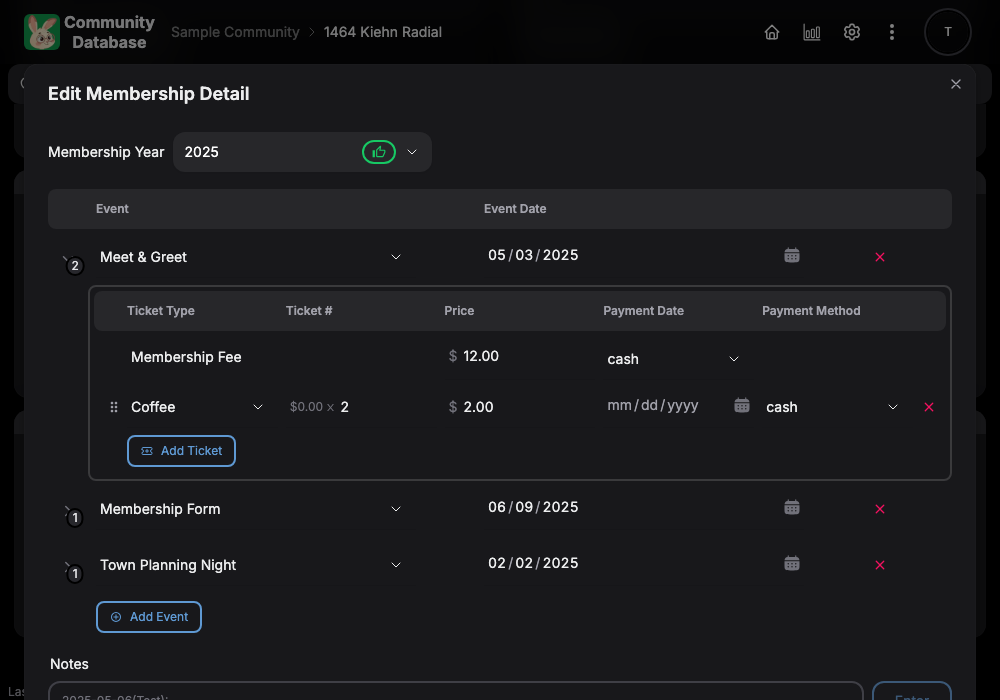
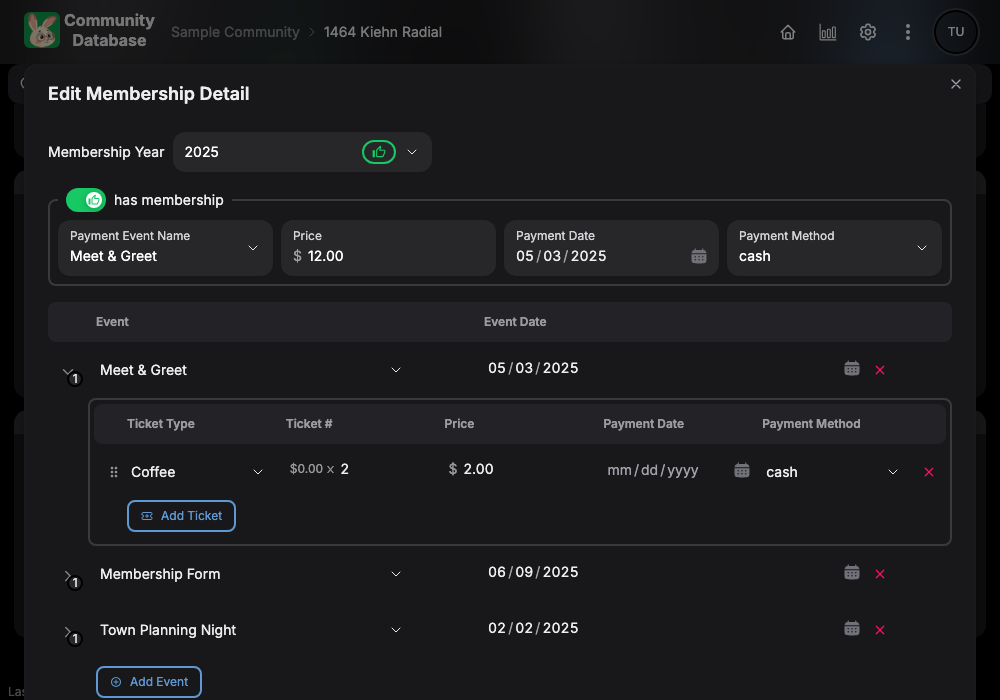
fix: update screenshots

diff --git a/src/app/lib/xlsx-io/__tests__/import-multisheet.spec.ts b/src/app/lib/xlsx-io/__tests__/import-multisheet.spec.ts
@@ -57,6 +57,11 @@ describe('import community xlsx (multisheet format)', () => {
                     membershipList {
                       year
                       isMember
+                      price
+                      paymentEventName
+                      paymentDate
+                      paymentMethod
+                      paymentDeposited
                       eventAttendedList {
                         eventName
                         eventDate
@@ -68,9 +73,6 @@ describe('import community xlsx (multisheet format)', () => {
                           paymentDate
                         }
                       }
-                      price
-                      paymentMethod
-                      paymentDeposited
                     }
                   }
                 }
@@ -193,7 +195,9 @@ describe('import community xlsx (multisheet format)', () => {
           __typename: 'Membership',
           eventAttendedList: [],
           isMember: false,
-          paymentDeposited: false,
+          paymentDate: null,
+          paymentEventName: null,
+          paymentDeposited: null,
           paymentMethod: null,
           price: null,
           year: 2024,
@@ -249,7 +253,9 @@ describe('import community xlsx (multisheet format)', () => {
             },
           ],
           isMember: true,
+          paymentDate: '2023-06-11',
           paymentDeposited: true,
+          paymentEventName: 'Summer Festival',
           paymentMethod: 'e-Transfer',
           price: '10',
           year: 2023,
@@ -265,9 +271,11 @@ describe('import community xlsx (multisheet format)', () => {
             },
           ],
           isMember: true,
+          paymentDate: '2022-02-10',
+          paymentEventName: 'Membership Carry Forward',
           paymentDeposited: false,
           paymentMethod: 'free',
-          price: null,
+          price: '0',
           year: 2022,
         },
         {
@@ -281,9 +289,11 @@ describe('import community xlsx (multisheet format)', () => {
             },
           ],
           isMember: true,
+          paymentDate: '2021-01-23',
+          paymentEventName: 'Membership Carry Forward',
           paymentDeposited: false,
           paymentMethod: 'free',
-          price: null,
+          price: '0',
           year: 2021,
         },
       ],

diff --git a/src/app/lib/xlsx-io/export/format-multisheet/index.ts b/src/app/lib/xlsx-io/export/format-multisheet/index.ts
@@ -110,17 +110,27 @@ export class ExportMultisheet extends ExportHelper {
 
   private processMembership(membership: Membership, propertyId: number) {
     const membershipId = this.rows.membership.length + 1;
+    const defaultMembershipFee = this.community.defaultSetting?.membershipFee;
     this.rows.membership.push({
       membershipId,
       propertyId,
       year: membership.year ?? null,
       isMember: ExportHelper.toBool(membership.isMember),
-      paymentEventName: membership.paymentEventName ?? null,
-      price: membership.price ?? null,
-      paymentDate: ExportHelper.toDate(membership?.paymentDate),
-      paymentMethod: membership.paymentMethod ?? null,
-
-      paymentDeposited: ExportHelper.toBool(membership.paymentDeposited),
+      ...(membership.isMember
+        ? {
+            paymentEventName: membership.paymentEventName ?? null,
+            price: membership.price ?? defaultMembershipFee ?? null,
+            paymentDate: ExportHelper.toDate(membership?.paymentDate),
+            paymentMethod: membership.paymentMethod ?? null,
+            paymentDeposited: ExportHelper.toBool(membership.paymentDeposited),
+          }
+        : {
+            paymentEventName: null,
+            price: null,
+            paymentDate: null,
+            paymentMethod: null,
+            paymentDeposited: null,
+          }),
     });
     membership.eventAttendedList.forEach((event) => {
       this.processEvent(event, membershipId);

diff --git a/src/app/lib/cipher.ts b/src/app/lib/cipher.ts
@@ -30,10 +30,25 @@ export class Cipher {
 
   /** Decrypt message */
   decrypt(encrypted: string) {
-    const decipher = crypto.createDecipheriv('aes-256-cbc', this.key, this.iv);
-    let decrypted = decipher.update(encrypted, 'base64', 'utf8');
-    decrypted += decipher.final('utf8');
-    return decrypted;
+    try {
+      const decipher = crypto.createDecipheriv(
+        'aes-256-cbc',
+        this.key,
+        this.iv
+      );
+      let decrypted = decipher.update(encrypted, 'base64', 'utf8');
+      decrypted += decipher.final('utf8');
+      return decrypted;
+    } catch (error) {
+      /**
+       * Decrypting unsuccessfully, just return garbage
+       *
+       * - We don't want to throw error because we want to allow invalid
+       *   CIPHER_KEY/CIPHER_IV combination
+       */
+
+      return '...';
+    }
   }
 
   /**

diff --git a/src/app/lib/xlsx-io/multisheet.ts b/src/app/lib/xlsx-io/multisheet.ts
@@ -59,7 +59,7 @@ export interface OccupantRow {
   moveOutDate: string | null;
   firstName: string | null;
   lastName: string | null;
-  optOut: number | undefined;
+  optOut: number | null;
 }
 
 export interface ContactRow {
@@ -74,12 +74,12 @@ export interface MembershipRow {
   membershipId: number;
   propertyId: number;
   year: number | null;
-  isMember: number | undefined;
+  isMember: number | null;
   paymentEventName: string | null;
   price: string | null;
   paymentDate: string | null;
   paymentMethod: string | null;
-  paymentDeposited: number | undefined;
+  paymentDeposited: number | null;
 }
 
 export interface EventRow {

diff --git a/src/app/lib/mailchimp/index.ts b/src/app/lib/mailchimp/index.ts
@@ -1,3 +1,4 @@
+import { GraphQLError } from 'graphql';
 import * as GQL from '~/graphql/generated/graphql';
 import { Cipher } from '~/lib/cipher';
 import { Audience, Ping, Resource } from './resource';
@@ -35,7 +36,7 @@ export class MailchimpApi {
     const parts = apiKey.split('-');
     const server = apiKey.split('-').at(-1);
     if (parts.length !== 2 || !server) {
-      throw new Error('Mailchimp API key is not valid');
+      throw new GraphQLError('Mailchimp API key is not valid');
     }
     return new MailchimpApi({ apiKey, server });
   }

diff --git a/src/app/lib/xlsx-io/export/export-helper.ts b/src/app/lib/xlsx-io/export/export-helper.ts
@@ -11,13 +11,10 @@ export abstract class ExportHelper {
     return input.toISOString();
   }
 
-  /**
-   * Convert database boolean (true/false/null) to xlsx cell value
-   * (1/0/undefined)
-   */
+  /** Convert database boolean (true/false/null) to xlsx cell value (1/0/null) */
   static toBool(input?: boolean | null) {
     if (input == null) {
-      return undefined;
+      return null;
     }
     return input ? 1 : 0;
   }
